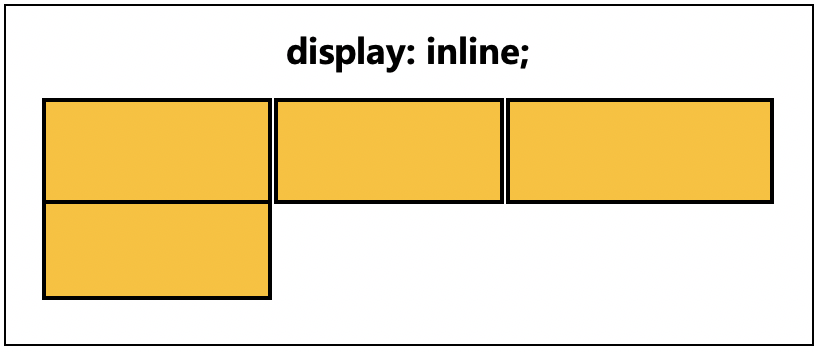
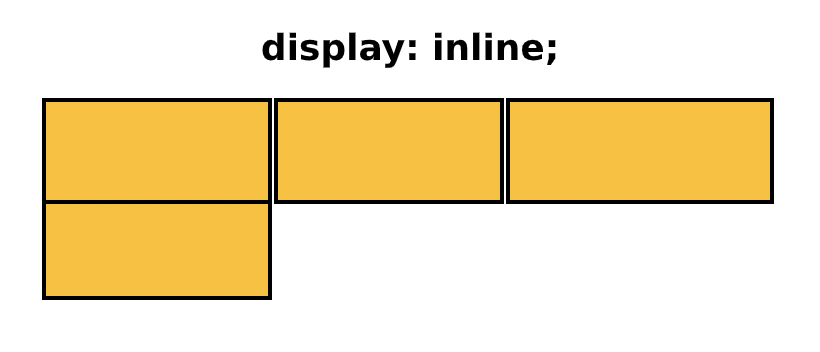
display images size fixed

Changed region(s): [[0.3049, 0.0938, 0.7012, 0.2188], [0.0, 0.9688, 1.0, 1.0], [0.0, 0.0, 1.0, 0.0312]]

diff --git a/index.html b/index.html
@@ -227,15 +227,15 @@
                         
                         <h3>Inline</h3>
                         <p>It positions block elements inline but <strong>it won't respect the width and height set</strong>.</p>
-                        <img class="img-fluid w-50" src="./src/images/display_inline.png" alt="Display Inline example" />
+                        <img class="img-fluid w-80" src="./src/images/display_inline.png" alt="Display Inline example" />
                         
                         <h3 class="pt-4">Block</h3>
                         <p>It positions inline elements as blocks.</p>
-                        <img class="img-fluid w-25" src="./src/images/display_block.png" alt="Display Block example" />
+                        <img class="img-fluid w-80" src="./src/images/display_block.png" alt="Display Block example" />
                         
                         <h3 class="pt-4">Inline-Block</h3>
                         <p>It works the same as inline but <strong>it respects the width and height we set</stron>.</p>
-                        <img class="img-fluid w-50 mb-4" src="./src/images/display_inline_block.png" alt="Display Inline Block example" />
+                        <img class="img-fluid w-80 mb-4" src="./src/images/display_inline_block.png" alt="Display Inline Block example" />
                         
                         <hr>
                         
